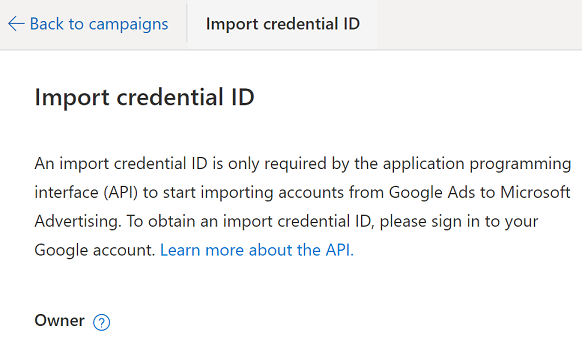
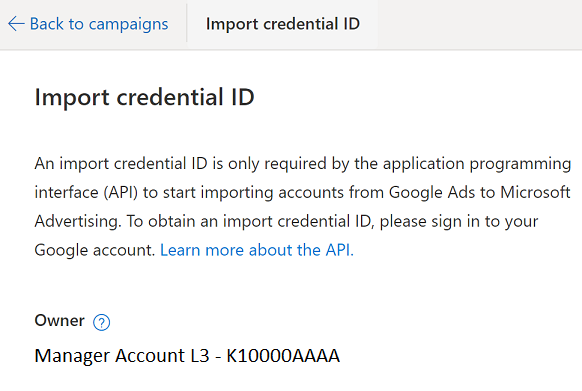
credential ID etc

diff --git a/Advertising/bingads-13/guides/google-ads-import.md b/Advertising/bingads-13/guides/google-ads-import.md
@@ -133,7 +133,7 @@ Each account has an "owner" i.e., the parent customer or manager account. You ca
 
 ![Owner via Accounts Summary](media/account-owner.png "Owner via Accounts Summary")
 
-You can use the same import credential ID to import any account under the same manager account. In the example above if we navigate to "Ad Account 3A" and request a credential ID, it can be used for import into both "Ad Account 3A" and "Ad Account 3B". This credential ID cannot be used to add an import job for "Ad Account 4A". Likewise, if we navigate to "Ad Account 4A" and request a credential ID, it can only be used for imports into "Ad Account 4A". Having said that, if new accounts are later added under "Manager Account L4", we could use the same import credential ID already provisioned. 
+You can use the same import credential ID to import any account under the same manager account. In the example above if we navigate to "Ad Account 3A" and request a credential ID, it can be used for import into both "Ad Account 3A" and "Ad Account 3B" (the owner of both accounts is "Manager Account L3"). This credential ID cannot be used to add an import job for "Ad Account 4A". Likewise, if we navigate to "Ad Account 4A" and request a credential ID, it can only be used for imports into "Ad Account 4A". Having said that, if new accounts are later added under "Manager Account L4", we could use the same import credential ID already provisioned. 
 
 How can you confirm the owner for accounts that you can access? When you [get an Import credential ID](#get-credentialid) you will sign in to Microsoft Advertising and navigate to the ad account where you want to import Google Ads campaigns. Whether you own the account directly or have linked access as an agency, you'll see the owner identified below the "Owner" label as shown here. 
 
